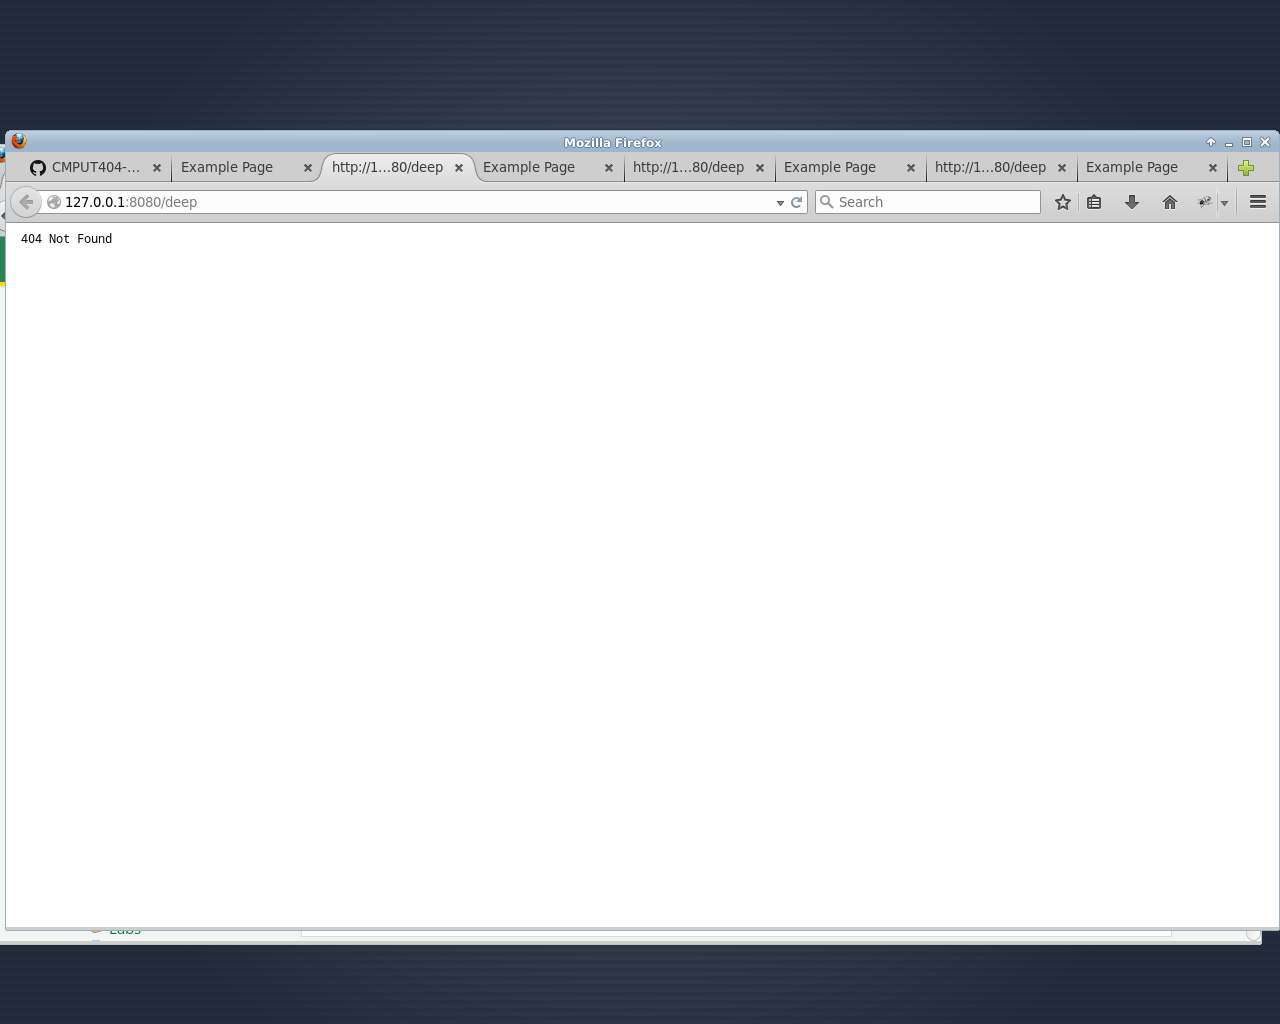
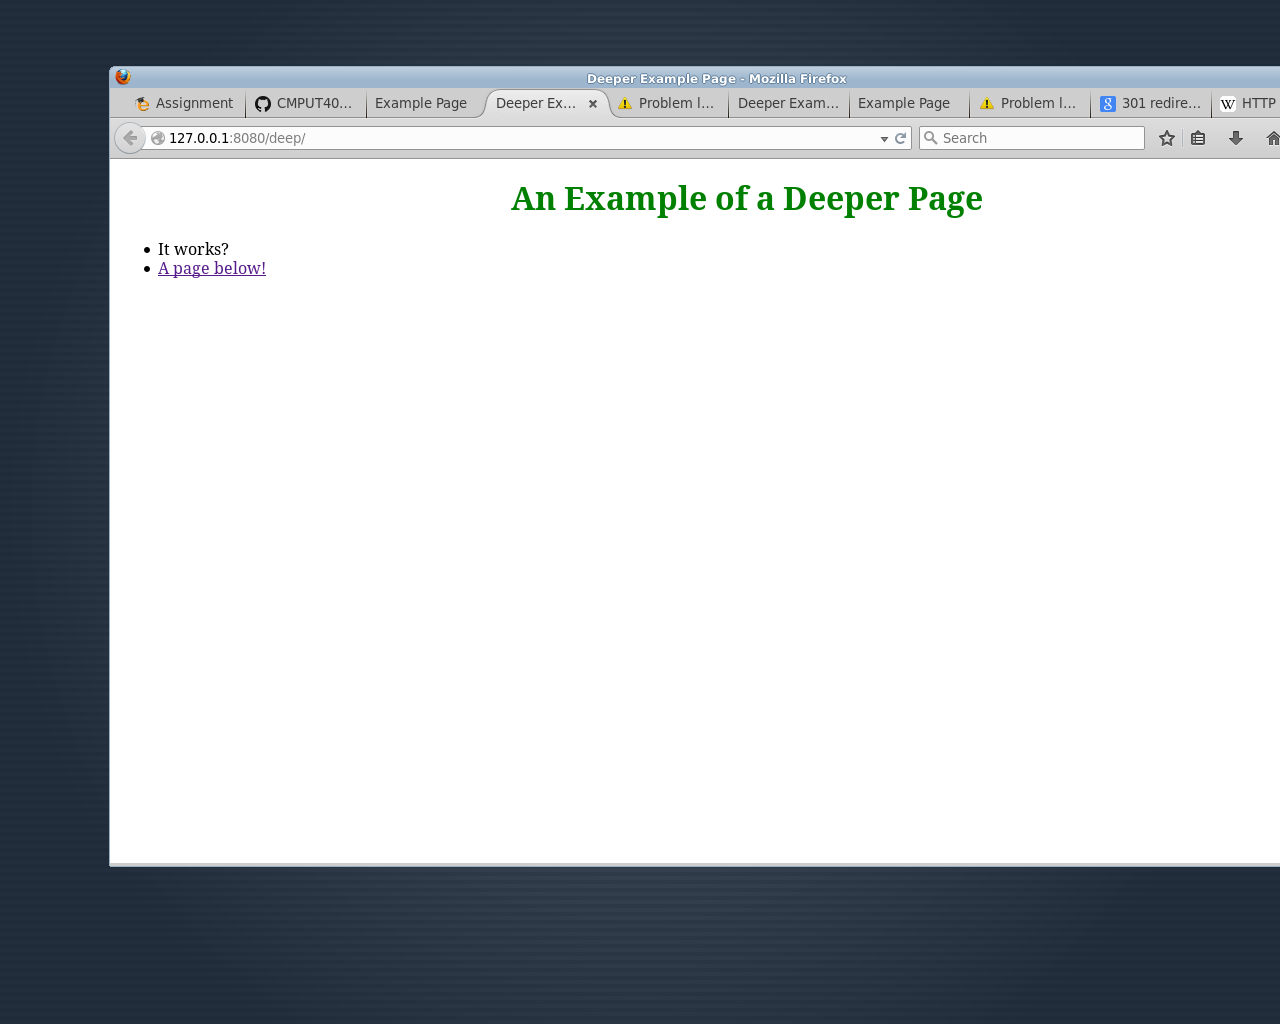
redirect

Changed region(s): [[0.0, 0.0625, 1.0, 0.9375]]

diff --git a/server.py b/server.py
@@ -51,23 +51,27 @@ class MyWebServer(SocketServer.BaseRequestHandler):
 				line=f.read(1024)
 			self.request.sendall(send)
 		#check if it is a directory and serve it up
-		elif (address.endswith("/")==True):
-			if os.path.isdir(os.getcwd()+"/www"+address):
+		
+		elif os.path.isdir(os.getcwd()+"/www"+address):
+			if (address.endswith("/")==True):
 				olddir=os.getcwd()
 				send=''
 				os.chdir(os.getcwd()+"/www"+address)
-				address+="/index.html"
-				f=open(os.getcwd()+"/index.html")
-				
+				address+="/index.html"	
+				f=open(os.getcwd()+"/index.html")	
 				send="HTTP/1.1 200 OK\r\n"
 				send+="Content-Type: text/html\r\n\r\n"
-				
 				line=f.read(1024)
 				while(line):
 					send+=line
 					line=f.read(1024)
 				self.request.sendall(send)
 				os.chdir(olddir)
+			#redirect to directory
+			else:
+				send="HTTP/1.1 301 redirect\r\n"
+				send+="Location: "+address+"/\r\n"
+				self.request.sendall(send)
 		#send 404 error
 		else:
 			self.request.sendall("HTTP/1.1 404 Not Found\r\nContent-Type: text/plain\r\n\r\n 404 Not Found")			
